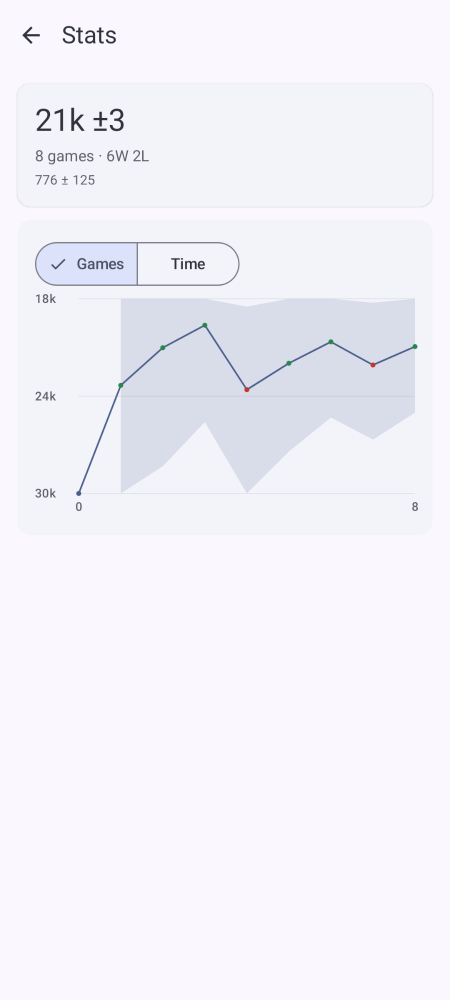
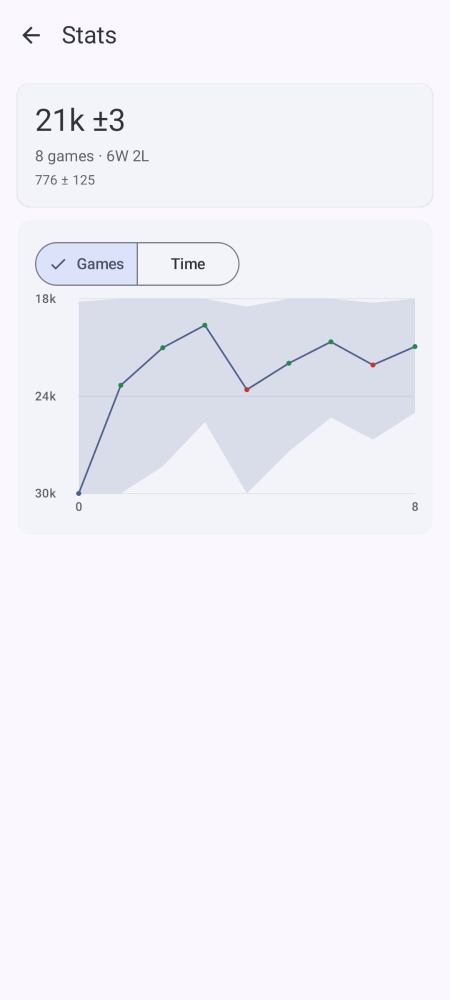
Stats band covers game 0; axis limits still from played games

Changed region(s): [[0.1556, 0.279, 0.28, 0.496]]

diff --git a/android/app/src/main/java/com/gotrainer/nine/ui/StatsScreen.kt b/android/app/src/main/java/com/gotrainer/nine/ui/StatsScreen.kt
@@ -142,13 +142,16 @@ private fun RatingGraph(
     val textMeasurer = rememberTextMeasurer()
     val labelStyle = MaterialTheme.typography.labelSmall.copy(color = onSurface)
     val dateFmt = remember { SimpleDateFormat("M/d", Locale.US) }
-    // Game 0 is the 30k start every trajectory climbs from; the band covers
-    // played games only (the start's ±12 ranks would flatten the axis).
+    // Game 0 is the 30k start every trajectory climbs from. Uncertainty
+    // covers every point including game 0 — but game 0's ±12 ranks must not
+    // stretch the axis: limits come from played games only, and yOf coerces
+    // the band into them (it clips at the chart edge, which is the honest
+    // picture: early uncertainty runs off the scale).
     val display = remember(traj) { listOf(PlayerRating.START) + traj }
     val ranks = display.map { BotRatings.ratingToRank(it.rating) }
-    val uppers = traj.map { BotRatings.ratingToRank(it.rating + it.rd) }
-    val lowers = traj.map { BotRatings.ratingToRank(it.rating - it.rd) }
-    val ticks = remember(ranks) { rankAxisTicks(lowers.min(), uppers.max()) }
+    val uppers = display.map { BotRatings.ratingToRank(it.rating + it.rd) }
+    val lowers = display.map { BotRatings.ratingToRank(it.rating - it.rd) }
+    val ticks = remember(ranks) { rankAxisTicks(lowers.drop(1).min(), uppers.drop(1).max()) }
     val xVals: List<Float> = remember(history, xMode) {
         if (xMode == StatsX.GAMES) {
             display.indices.map { it.toFloat() / history.size }
@@ -167,13 +170,13 @@ private fun RatingGraph(
         val hi = ticks.last().toFloat().takeIf { it > lo } ?: (lo + 1)
         fun yOf(rank: Double): Float = h - ((rank.coerceIn(lo.toDouble(), hi.toDouble()) - lo) / (hi - lo)).toFloat() * h
         fun xOf(t: Float): Float = left + t * w
-        // Uncertainty band over played games (game i plots at xVals[i + 1]).
+        // Uncertainty band over all points (display aligns with xVals).
         val band = Path().apply {
             uppers.forEachIndexed { i, u ->
-                val x = xOf(xVals[i + 1]); val y = yOf(u)
+                val x = xOf(xVals[i]); val y = yOf(u)
                 if (i == 0) moveTo(x, y) else lineTo(x, y)
             }
-            for (i in lowers.indices.reversed()) lineTo(xOf(xVals[i + 1]), yOf(lowers[i]))
+            for (i in lowers.indices.reversed()) lineTo(xOf(xVals[i]), yOf(lowers[i]))
             close()
         }
         drawPath(band, accent.copy(alpha = 0.15f))
